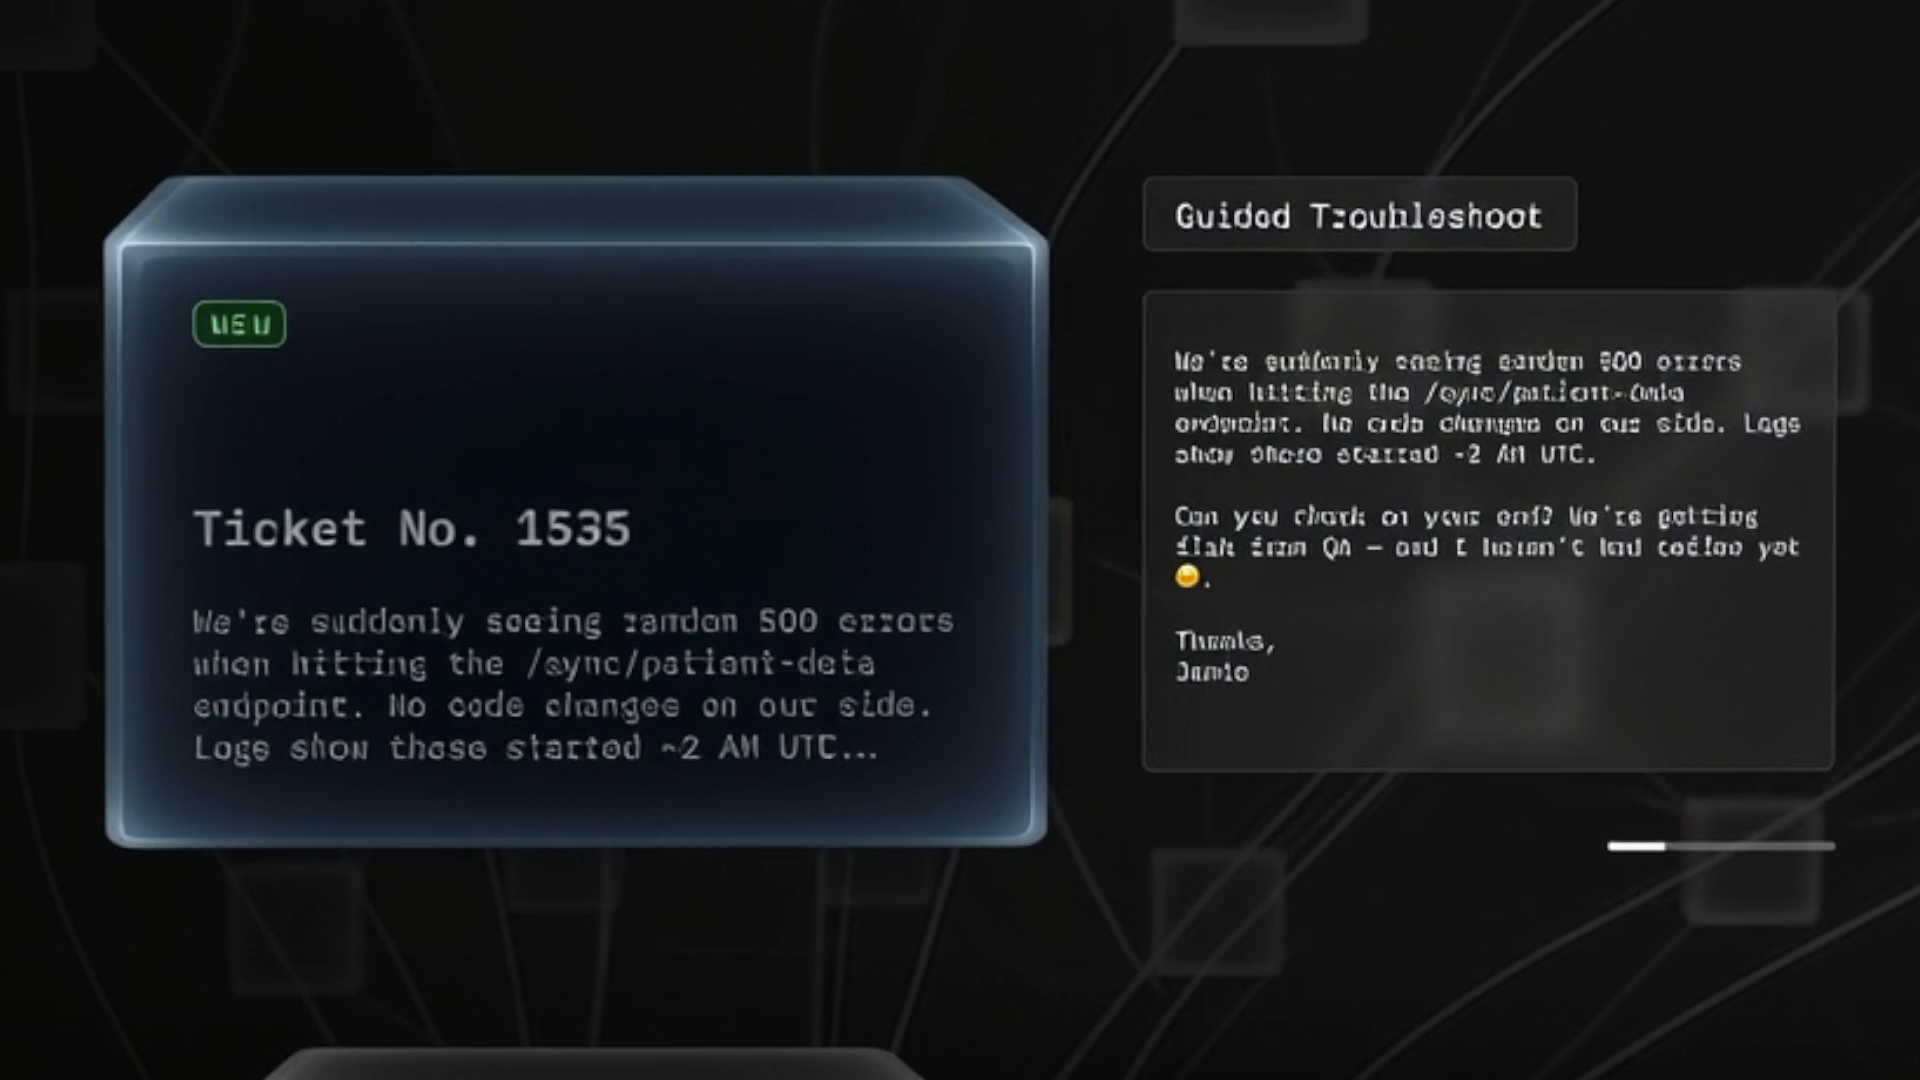
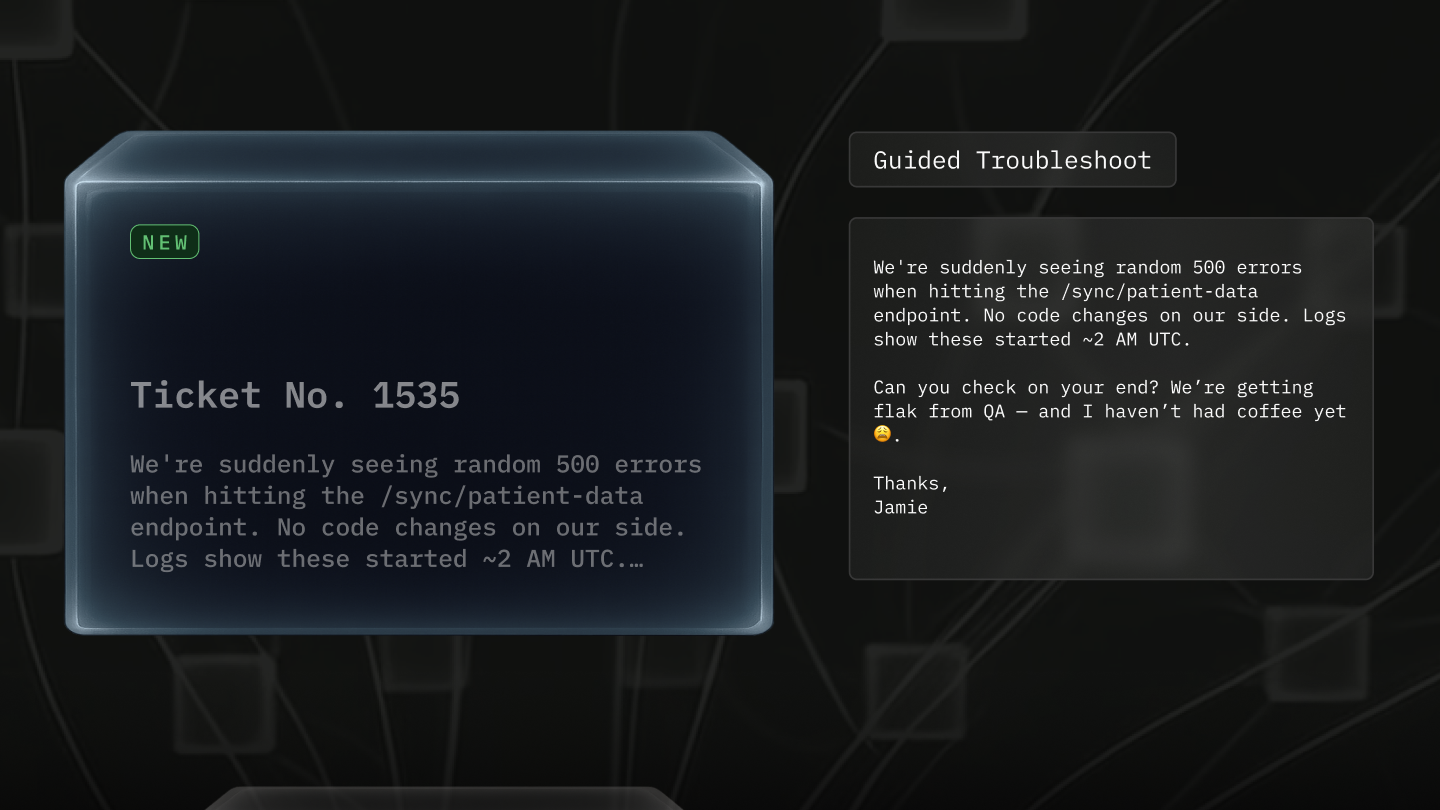
Add new png for mobile and desktop

diff --git a/src/components/scroll-sections/Demo/Demo.jsx b/src/components/scroll-sections/Demo/Demo.jsx
@@ -769,59 +769,59 @@ export default function Demo() {
   }, [isInitialized]);
 
   // Show loading screen while assets are being preloaded
-  if (isPreloading) {
-    return (
-      <div className="demo-container" style={{
-        display: 'flex',
-        flexDirection: 'column',
-        alignItems: 'center',
-        justifyContent: 'center',
-        background: 'linear-gradient(135deg, #1a1a1a 0%, #2d2d2d 100%)',
-        color: 'white',
-        fontFamily: 'Prodigy Sans, -apple-system, BlinkMacSystemFont, Segoe UI, sans-serif'
-      }}>
-        <div style={{ marginBottom: '20px' }}>
-          <img 
-            src="/final-logo.svg" 
-            alt="Kahuna" 
-            style={{ height: '60px', width: 'auto' }}
-          />
-        </div>
-        <div style={{ 
-          width: '300px', 
-          height: '4px', 
-          backgroundColor: 'rgba(255,255,255,0.2)', 
-          borderRadius: '2px',
-          overflow: 'hidden',
-          marginBottom: '16px'
-        }}>
-          <div style={{
-            width: `${preloadProgress}%`,
-            height: '100%',
-            background: 'linear-gradient(90deg, #00D4FF 0%, #0099CC 100%)',
-            transition: 'width 0.3s ease-out',
-            borderRadius: '2px'
-          }} />
-        </div>
-        <div style={{ fontSize: '16px', fontWeight: '500', marginBottom: '8px' }}>
-          Loading Assets...
-        </div>
-        <div style={{ fontSize: '14px', opacity: 0.7 }}>
-          {preloadProgress}% Complete
-        </div>
-        {preloadError && (
-          <div style={{ 
-            fontSize: '12px', 
-            color: '#ff6b6b', 
-            marginTop: '10px',
-            textAlign: 'center'
-          }}>
-            Some assets failed to load, but the experience will continue
-          </div>
-        )}
-      </div>
-    );
-  }
+  // if (isPreloading) {
+  //   return (
+  //     <div className="demo-container" style={{
+  //       display: 'flex',
+  //       flexDirection: 'column',
+  //       alignItems: 'center',
+  //       justifyContent: 'center',
+  //       background: 'linear-gradient(135deg, #1a1a1a 0%, #2d2d2d 100%)',
+  //       color: 'white',
+  //       fontFamily: 'Prodigy Sans, -apple-system, BlinkMacSystemFont, Segoe UI, sans-serif'
+  //     }}>
+  //       <div style={{ marginBottom: '20px' }}>
+  //         <img 
+  //           src="/final-logo.svg" 
+  //           alt="Kahuna" 
+  //           style={{ height: '60px', width: 'auto' }}
+  //         />
+  //       </div>
+  //       <div style={{ 
+  //         width: '300px', 
+  //         height: '4px', 
+  //         backgroundColor: 'rgba(255,255,255,0.2)', 
+  //         borderRadius: '2px',
+  //         overflow: 'hidden',
+  //         marginBottom: '16px'
+  //       }}>
+  //         <div style={{
+  //           width: `${preloadProgress}%`,
+  //           height: '100%',
+  //           background: 'linear-gradient(90deg, #00D4FF 0%, #0099CC 100%)',
+  //           transition: 'width 0.3s ease-out',
+  //           borderRadius: '2px'
+  //         }} />
+  //       </div>
+  //       <div style={{ fontSize: '16px', fontWeight: '500', marginBottom: '8px' }}>
+  //         Loading Assets...
+  //       </div>
+  //       <div style={{ fontSize: '14px', opacity: 0.7 }}>
+  //         {preloadProgress}% Complete
+  //       </div>
+  //       {preloadError && (
+  //         <div style={{ 
+  //           fontSize: '12px', 
+  //           color: '#ff6b6b', 
+  //           marginTop: '10px',
+  //           textAlign: 'center'
+  //         }}>
+  //           Some assets failed to load, but the experience will continue
+  //         </div>
+  //       )}
+  //     </div>
+  //   );
+  // }
 
   return (
     <div className="demo-container">

diff --git a/src/components/scroll-sections/PNGSequence/PNGSequence.jsx b/src/components/scroll-sections/PNGSequence/PNGSequence.jsx
@@ -507,7 +507,7 @@ const PNGSequence = ({
         </div>
       )}
       {/* Debug info - remove in production */}
-      {process.env.NODE_ENV === 'development' && (
+      {/* {process.env.NODE_ENV === 'development' && (
         <div className="png-sequence-debug">
           <div>Section: {activeSection}</div>
           <div>Progress: {(sectionProgress * 100).toFixed(1)}%</div>
@@ -544,7 +544,7 @@ const PNGSequence = ({
             Video Progress: {videoPreloadProgress.toFixed(1)}%
           </div>
         </div>
-      )}
+      )} */}
     </div>
   );
 };

diff --git a/src/components/scroll-sections/WebPSequence/WebPSequence.jsx b/src/components/scroll-sections/WebPSequence/WebPSequence.jsx
@@ -435,7 +435,7 @@ const WebPSequence = ({
       )}
       
       {/* Debug info - remove in production */}
-      {process.env.NODE_ENV === 'development' && (
+      {/* {process.env.NODE_ENV === 'development' && (
         <div className="webp-sequence-debug">
           <div>📱 WebP Sequence</div>
           <div>Section: {activeSection}</div>
@@ -470,7 +470,7 @@ const WebPSequence = ({
             Video Progress: {videoPreloadProgress.toFixed(1)}%
           </div>
         </div>
-      )}
+      )} */}
     </div>
   );
 };
